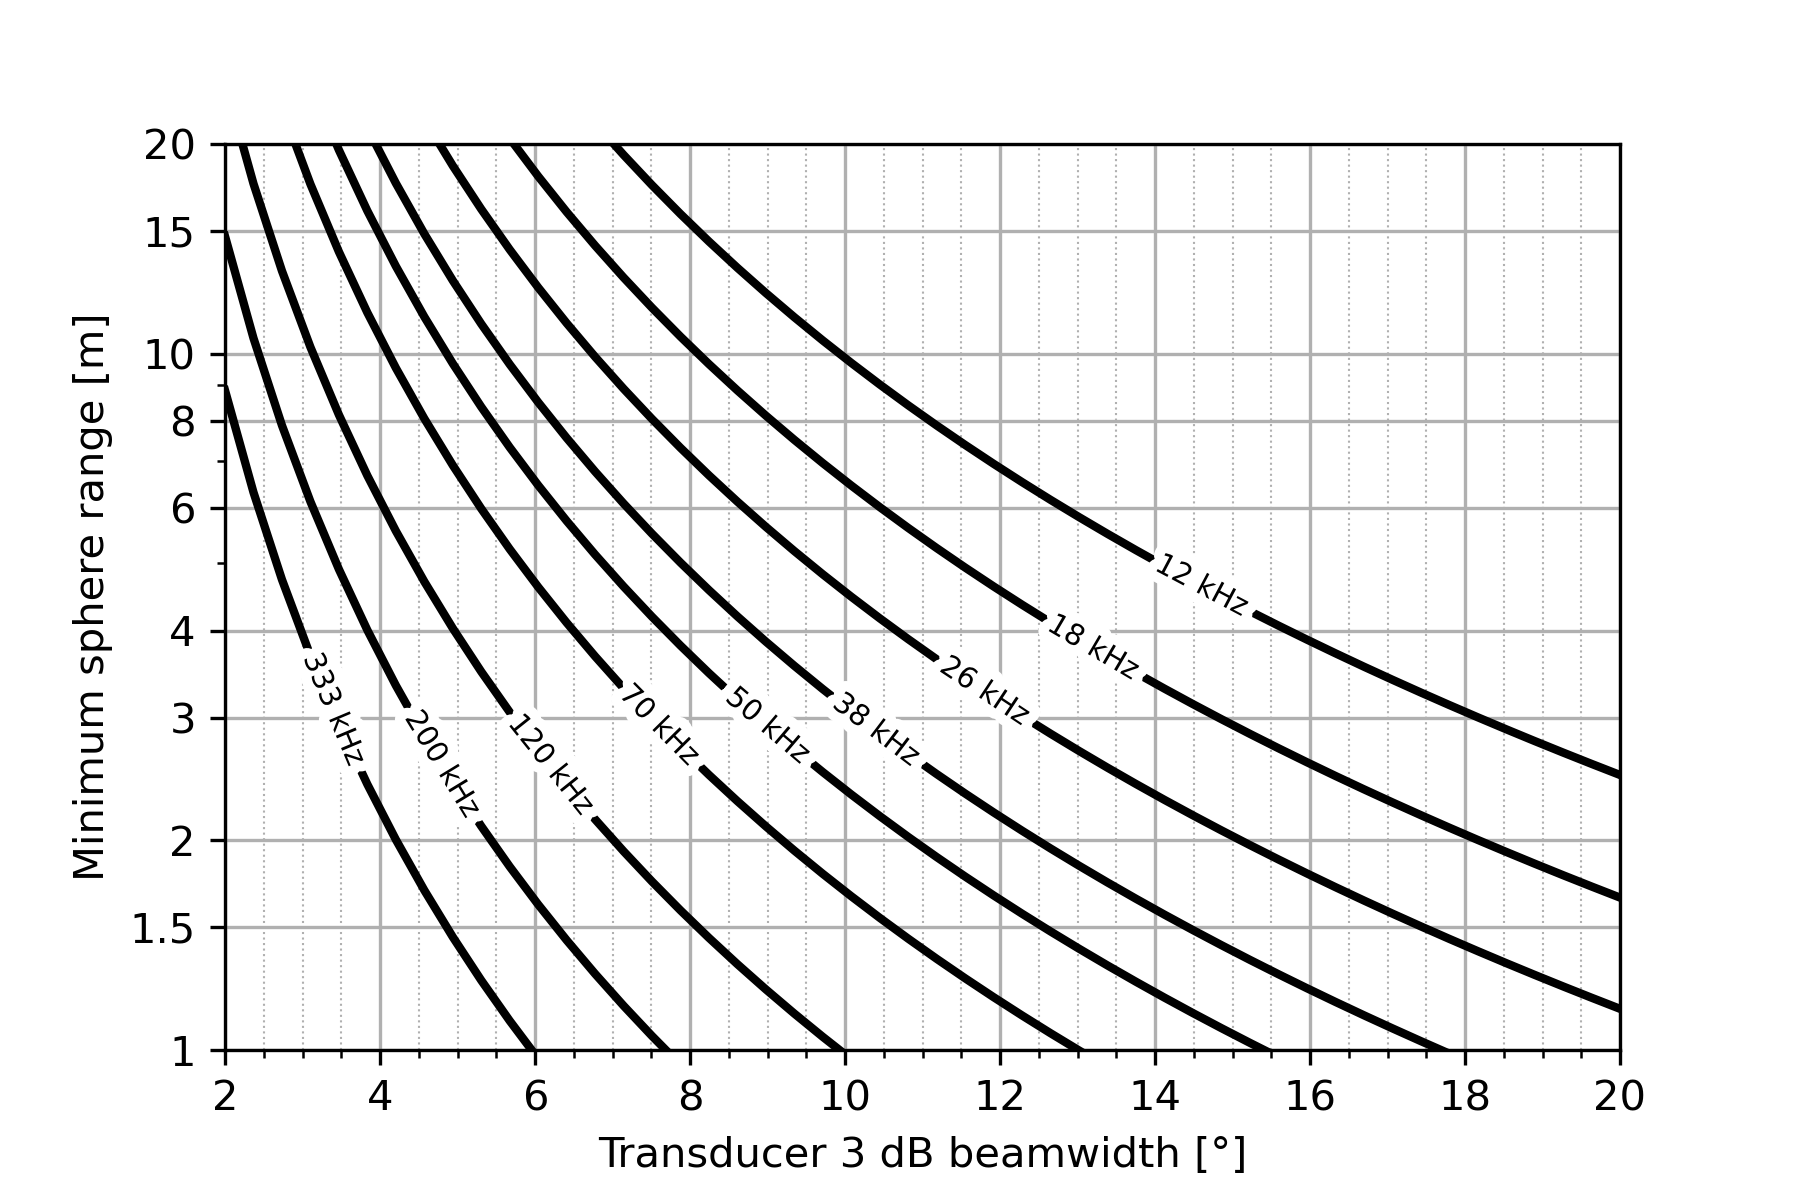
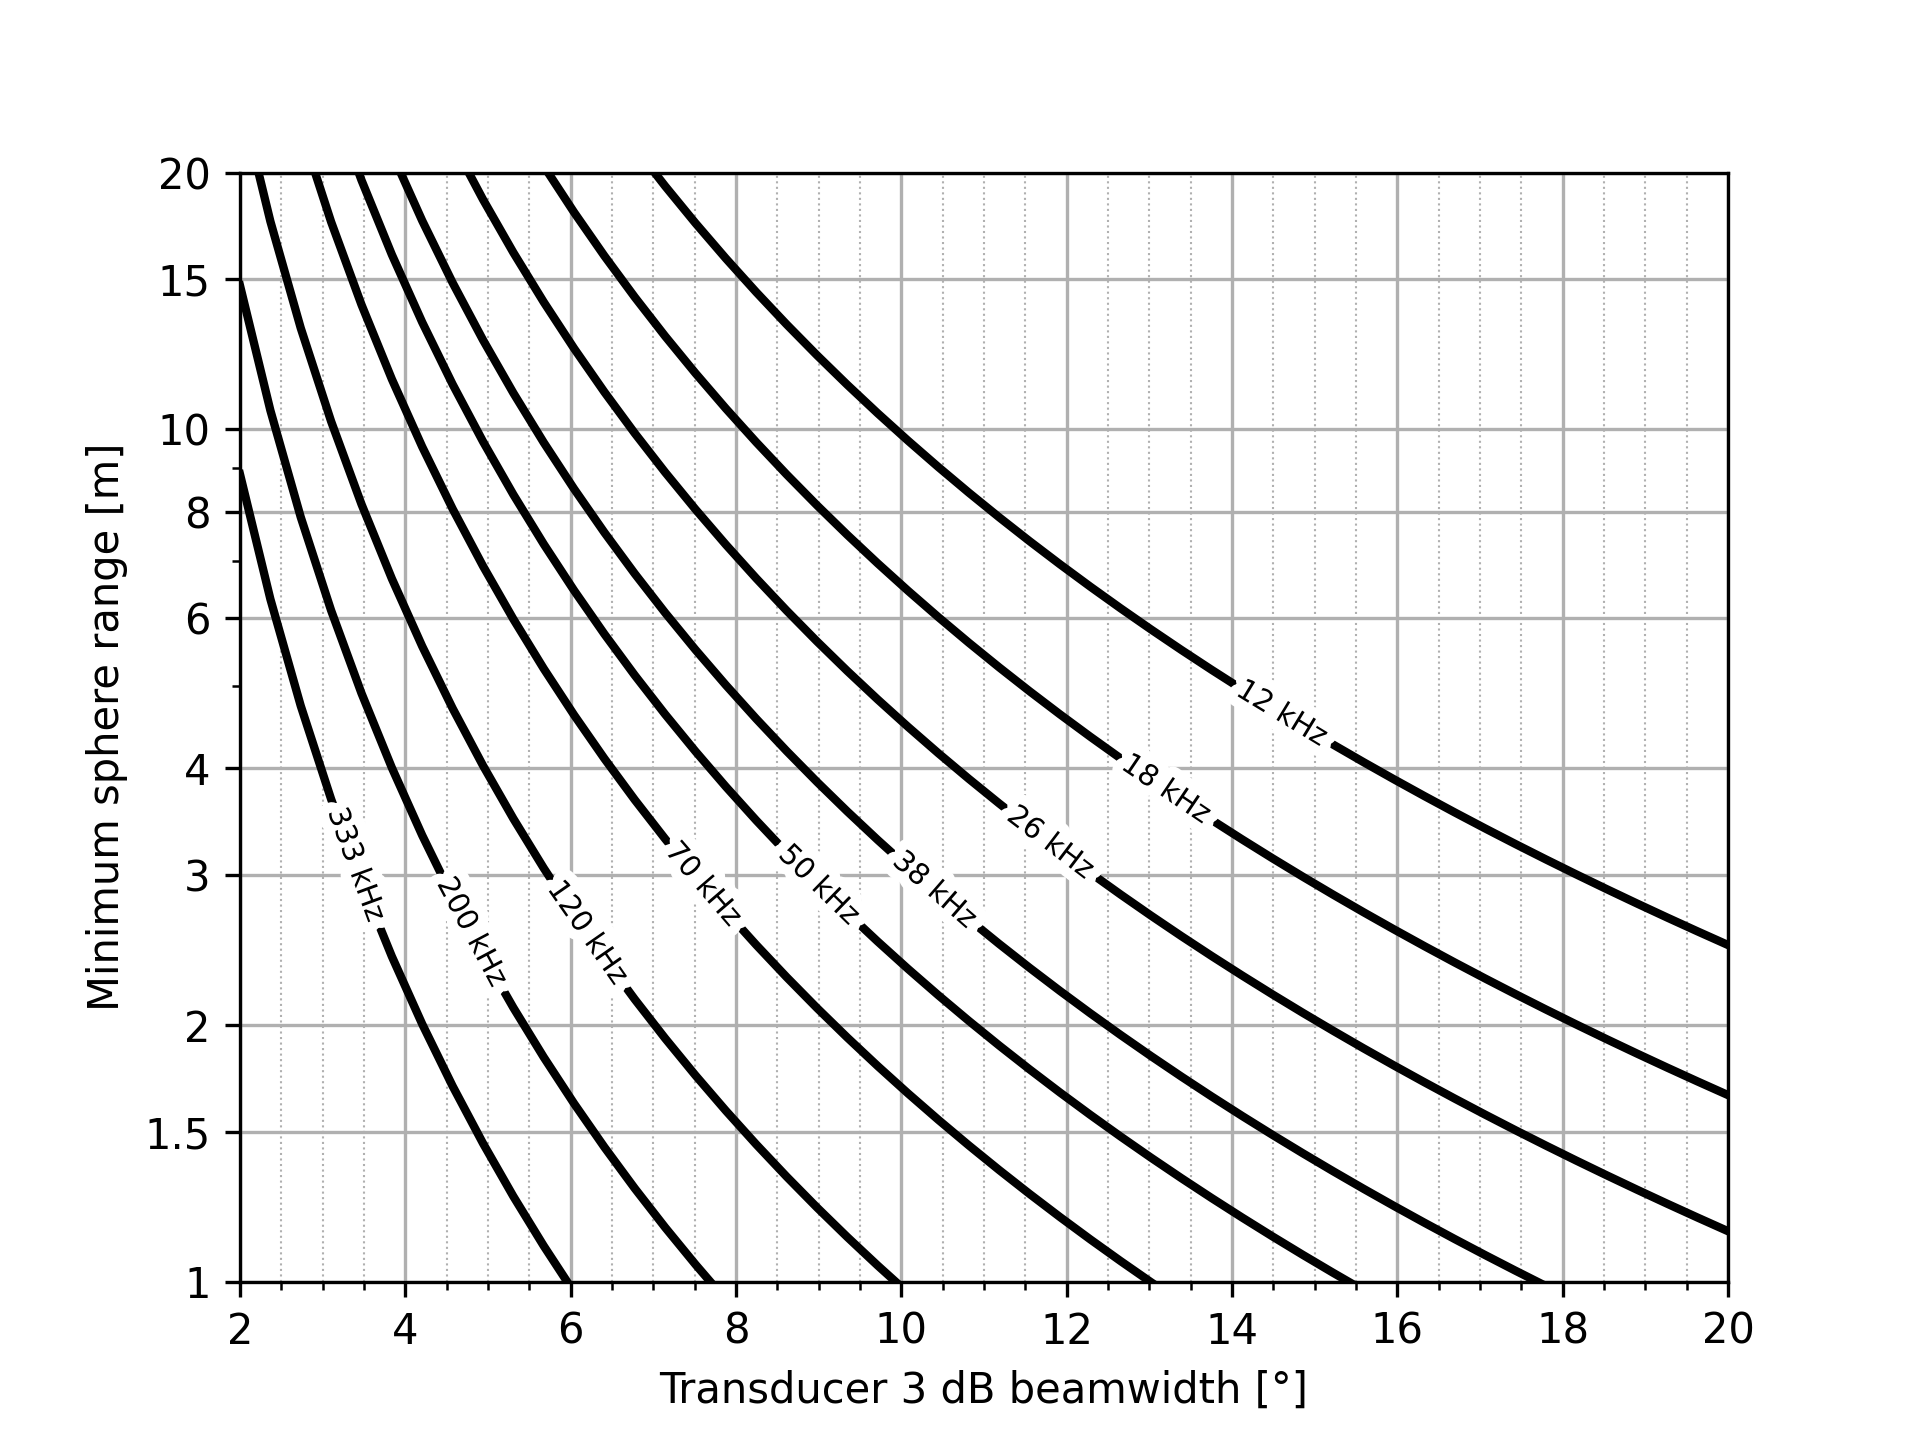
Add inline script metadata, improve documentation

Changed region(s): [[0.0311, 0.1542, 0.9333, 0.9867], [0.0622, 0.0925, 0.1244, 0.1233]]

diff --git a/src/acoustics/plot_transducer_near_fields.py b/src/acoustics/plot_transducer_near_fields.py
@@ -1,28 +1,33 @@
-# -*- coding: utf-8 -*-
-"""
-Creates a plot of recommended minimum sphere calibration range as a function of transducer beamwidth
-and acoustic frequency.
+"""Creates a plot of recommended minimum sphere calibration ranges.
 
-An earlier version of this code (written in Matlab) was used to generate Figure 2.5 in:
+Minimum calibration range varies as a function of transducer beamwidth and acoustic frequency.
+
+The plot implements equations 2.1b, 2.2, and the factor 3 multiplier mentioned in the caption of
+Figure 2.5. of Demer et al. (2015). An earlier version of this code (written in Matlab) was used
+to generate Figure 2.5 Demer et al.
 
 Demer, D.A., Berger, L., Bernasconi, M., Boswell, K.M., Chu, D., Domokos, R., Dunford, A.J.,
    Fässler, S.M.M., Gauthier, S., Hufnagle, L.T., Jech, J.M., Bouffant, N., Lebourges-Dhaussy, A.,
    Lurton, X., Macaulay, G.J., Perrot, Y., Ryan, T.E., Parker-Stetter, S., Stienessen, S.,
    Weber, T.C., Williamson, N.J., 2015. Calibration of acoustic instruments (ICES Cooperative
    Research Report 326). https://doi.org/10.17895/ices.pub.5494
-
-and implements equations 2.1b, 2.2, and the factor 3 multiplier mentioned in the caption of
-Figure 2.5.
-
 """
-
+# /// script
+# dependencies = [
+#   "matplotlib",
+#   "numpy",
+#   "matplotlib-label-lines",
+# ]
+# ///
 import matplotlib.pyplot as plt
 import numpy as np
 from labellines import labelLines  # see https://github.com/cphyc/matplotlib-label-lines
 
 c = 1470.  # [m/s] speed of sound in water # pylint: disable=invalid-name
+
 # Calculate the near-field range at these frequencies
 freq = np.array([12, 18, 26, 38, 50, 70, 120, 200, 333]) * 1e3  # [Hz]
+
 # The range of transducer 3 dB two-way beamwidths to use
 bw = np.linspace(2, 20, 50)  # [deg]
 
